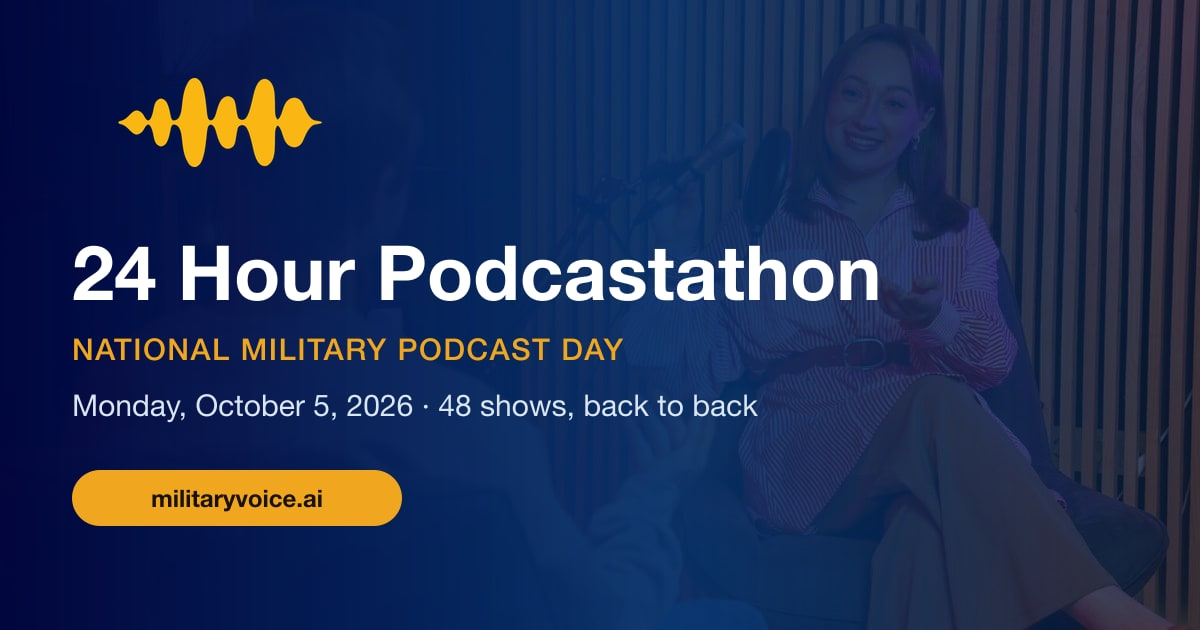
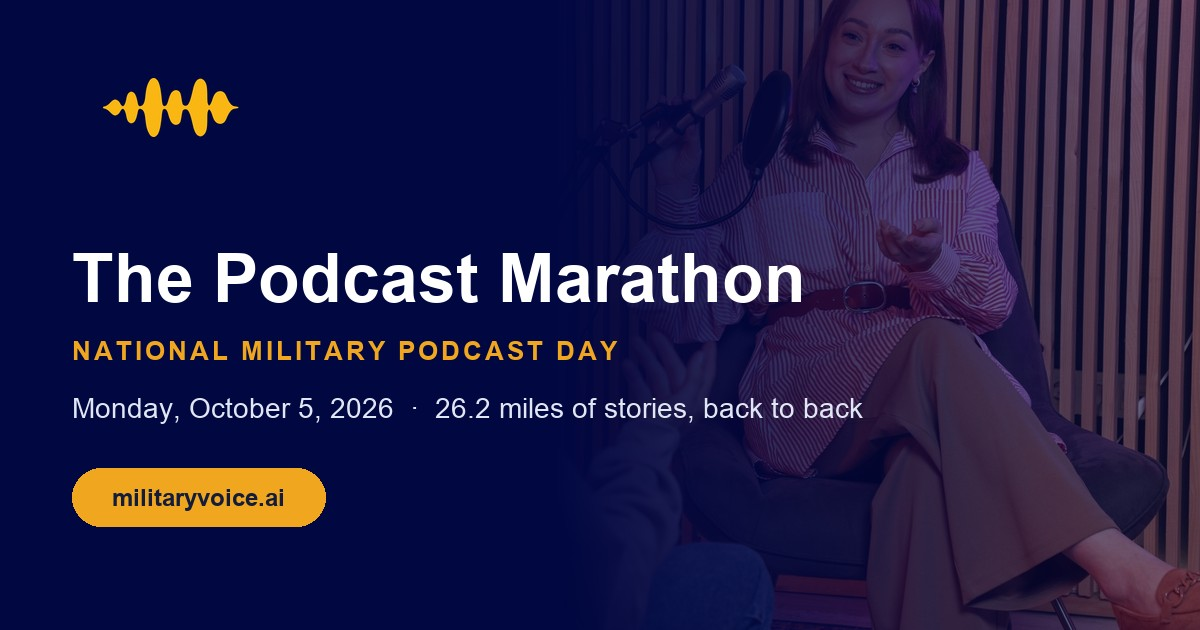
The share card and the event card say The Podcast Marathon, not 24 Hour Podcastathon
Both pictures still carried the old name and the old count in their pixels.
Rebuilt from the same photos with the marathon line. The og:image URL takes a
version so the networks fetch the new one instead of their cached copy.

Also: the held draft to Alison, from Riccoh, with two spots on offer.

diff --git a/scripts/email-alison-reschedule.ts b/scripts/email-alison-reschedule.ts
@@ -1,0 +1,83 @@
+// The time moved under Alison without a proper heads-up, and she asked for a
+// cancel or a way to reschedule. From Riccoh: two spots on offer, times only.
+//
+//   npx tsx scripts/email-alison-reschedule.ts             # dry run
+//   npx tsx scripts/email-alison-reschedule.ts --preview   # read it
+//   npx tsx scripts/email-alison-reschedule.ts --test      # one copy to Andrew
+//   npx tsx scripts/email-alison-reschedule.ts --apply     # send it
+import "dotenv/config";
+import postgres from "postgres";
+import { emailShell, EMAIL_BANNERS } from "../server/email";
+
+const args = process.argv.slice(2);
+const apply = args.includes("--apply");
+const test = args.includes("--test");
+const preview = args.includes("--preview");
+const BASE = process.env.PUBLIC_BASE_URL || "https://www.militaryvoice.ai";
+const API = process.env.API_BASE || BASE;
+const TO = "alison@alisonbellphotographer.com";
+
+const sql = postgres(process.env.POSTGRES_URL!, { ssl: "require", max: 1, onnotice: () => {} });
+const [ev] = await sql<{ start_at_utc: string; slot_minutes: number; admin_password: string }[]>`
+  SELECT start_at_utc, slot_minutes, admin_password FROM events WHERE id = 1`;
+const [alison] = await sql<{ slot_index: number }[]>`SELECT slot_index FROM signups WHERE event_id = 1 AND lower(email) = ${TO} ORDER BY id DESC LIMIT 1`;
+const [zach] = await sql<{ slot_index: number }[]>`SELECT slot_index FROM signups WHERE event_id = 1 AND status <> 'cancelled' AND podcast_name ILIKE '%warrior legacy%' LIMIT 1`;
+const [riccoh] = await sql<{ slot_index: number }[]>`SELECT slot_index FROM signups WHERE event_id = 1 AND status <> 'cancelled' AND podcast_name ILIKE '%devil dawg%' LIMIT 1`;
+await sql.end();
+if (!alison || !zach || !riccoh) { console.log("Could not find the three slots."); process.exit(1); }
+
+const when = (slot: number, zone: string) =>
+  new Intl.DateTimeFormat("en-US", { hour: "numeric", minute: "2-digit", timeZone: zone })
+    .format(new Date(Date.parse(ev.start_at_utc) + slot * ev.slot_minutes * 60_000));
+const both = (slot: number) => `${when(slot, "America/New_York")} Eastern (${when(slot, "Pacific/Honolulu")} Hawaii)`;
+const current = both(alison.slot_index);
+const early = both(Math.min(zach.slot_index, riccoh.slot_index));
+const late = both(Math.max(zach.slot_index, riccoh.slot_index));
+
+const SUBJECT = "Sorry about the time change — two other spots for you";
+
+const html = `<p>Alison,</p>
+
+<p>You're right, and I'm sorry. The schedule moved and your time changed to ${current}
+without a proper heads-up first. That's on us.</p>
+
+<p>I don't want to lose <em>Get Booked</em> from the day, so here are two spots I can
+give you on Monday, October 5:</p>
+
+<ul>
+  <li><strong>${early}</strong></li>
+  <li><strong>${late}</strong></li>
+</ul>
+
+<p>Reply with the one that works and I'll move you there myself — nothing for you to
+set up. If neither works, say so and I'll take you off the lineup, no hard feelings.</p>
+
+<p>Riccoh</p>`;
+
+const text = `Alison,
+
+You're right, and I'm sorry. The schedule moved and your time changed to ${current} without a proper heads-up first. That's on us.
+
+I don't want to lose Get Booked from the day, so here are two spots I can give you on Monday, October 5:
+
+  - ${early}
+  - ${late}
+
+Reply with the one that works and I'll move you there myself — nothing for you to set up. If neither works, say so and I'll take you off the lineup, no hard feelings.
+
+Riccoh`;
+
+console.log(`To: ${TO}`);
+if (preview) console.log(`\nFrom: Riccoh\nSubject: ${SUBJECT}\n\n${text}`);
+if (!test && !apply) { console.log(`\nNothing sent. --preview to read it, --test for one copy, --apply to send.`); process.exit(0); }
+
+const dest = test ? "andrew@podlogix.co" : TO;
+const res = await fetch(`${API}/api/admin/emails/send-one`, {
+  method: "POST",
+  headers: { "content-type": "application/json", "x-admin-password": ev.admin_password },
+  body: JSON.stringify({
+    to: dest, subject: SUBJECT, text, sender: "member:1", banner: "podcasters",
+    html: emailShell({ banner: EMAIL_BANNERS.podcasters, eyebrow: "The Podcast Marathon · 5 October", heading: SUBJECT, body: html }),
+  }),
+});
+console.log(res.ok ? `sent to ${dest}` : `FAILED ${res.status} ${await res.text()}`);

diff --git a/client/index.html b/client/index.html
@@ -28,14 +28,14 @@
     <meta property="og:url" content="https://www.militaryvoice.ai/" />
     <!-- Absolute URL: scrapers don't resolve relative paths. Dimensions let
          them reserve the space before the image lands. -->
-    <meta property="og:image" content="https://www.militaryvoice.ai/og-card.jpg" />
-    <meta property="og:image:secure_url" content="https://www.militaryvoice.ai/og-card.jpg" />
+    <meta property="og:image" content="https://www.militaryvoice.ai/og-card.jpg?v=2" />
+    <meta property="og:image:secure_url" content="https://www.militaryvoice.ai/og-card.jpg?v=2" />
     <meta property="og:image:type" content="image/jpeg" />
     <meta property="og:image:width" content="1200" />
     <meta property="og:image:height" content="630" />
     <meta property="og:image:alt" content="The Podcast Marathon — National Military Podcast Day, Monday October 5, 2026" />
     <meta name="twitter:card" content="summary_large_image" />
-    <meta name="twitter:image" content="https://www.militaryvoice.ai/og-card.jpg" />
+    <meta name="twitter:image" content="https://www.militaryvoice.ai/og-card.jpg?v=2" />
     <meta name="twitter:image:alt" content="The Podcast Marathon — National Military Podcast Day, Monday October 5, 2026" />
     <meta name="twitter:title" content="The Podcast Marathon — October 5, 2026 — MilitaryVoice.ai" />
     <meta
